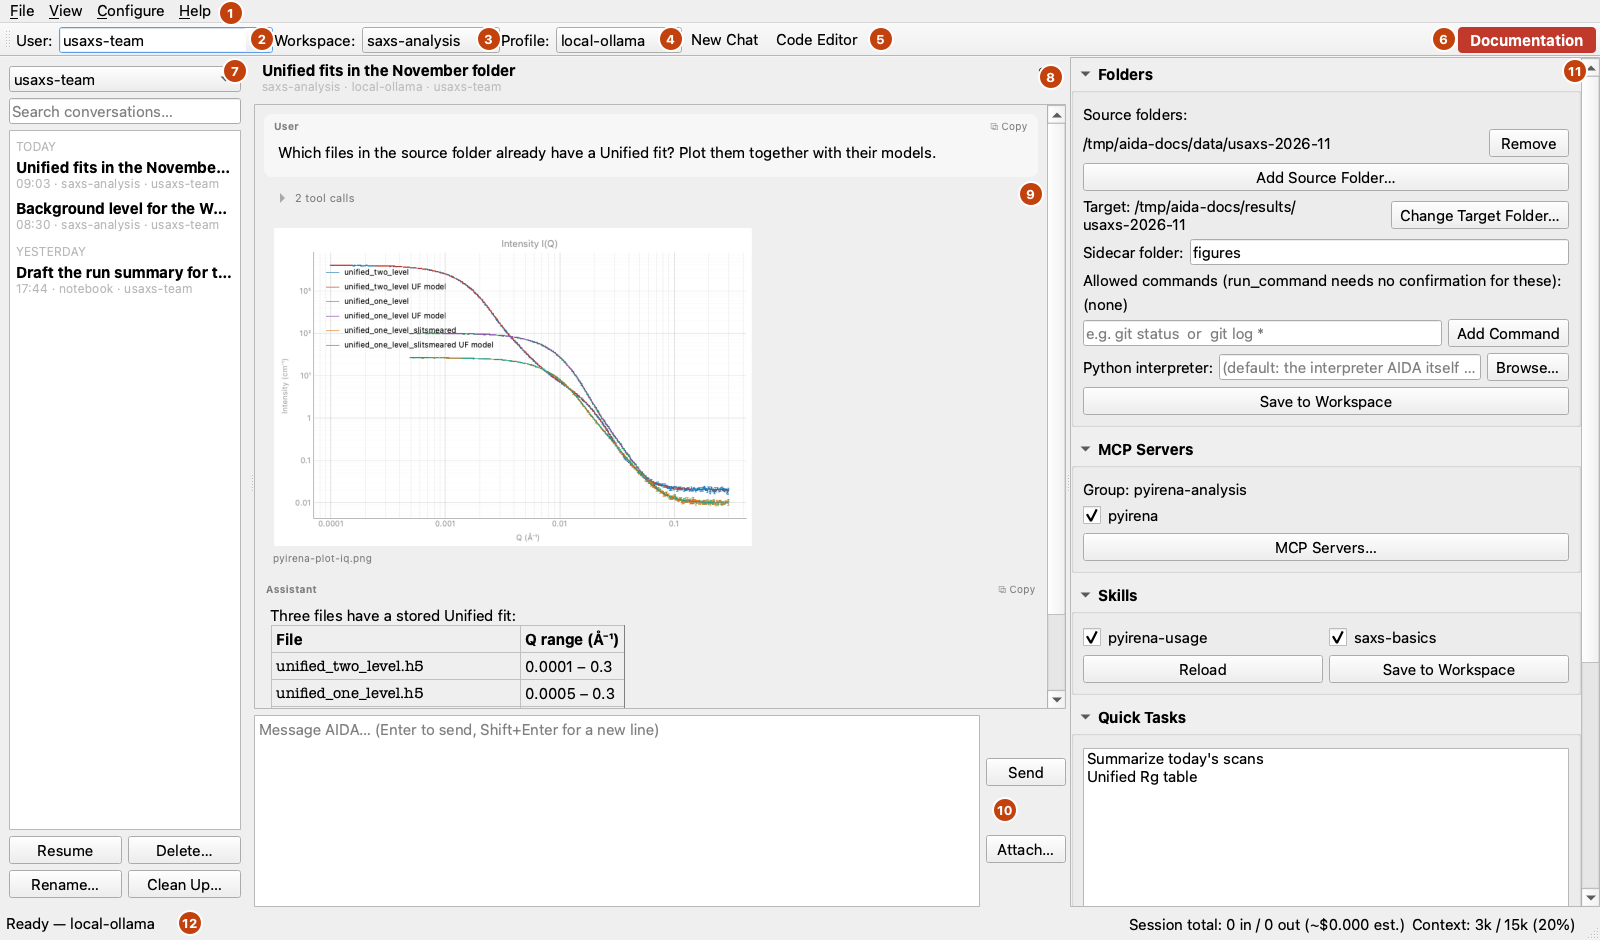
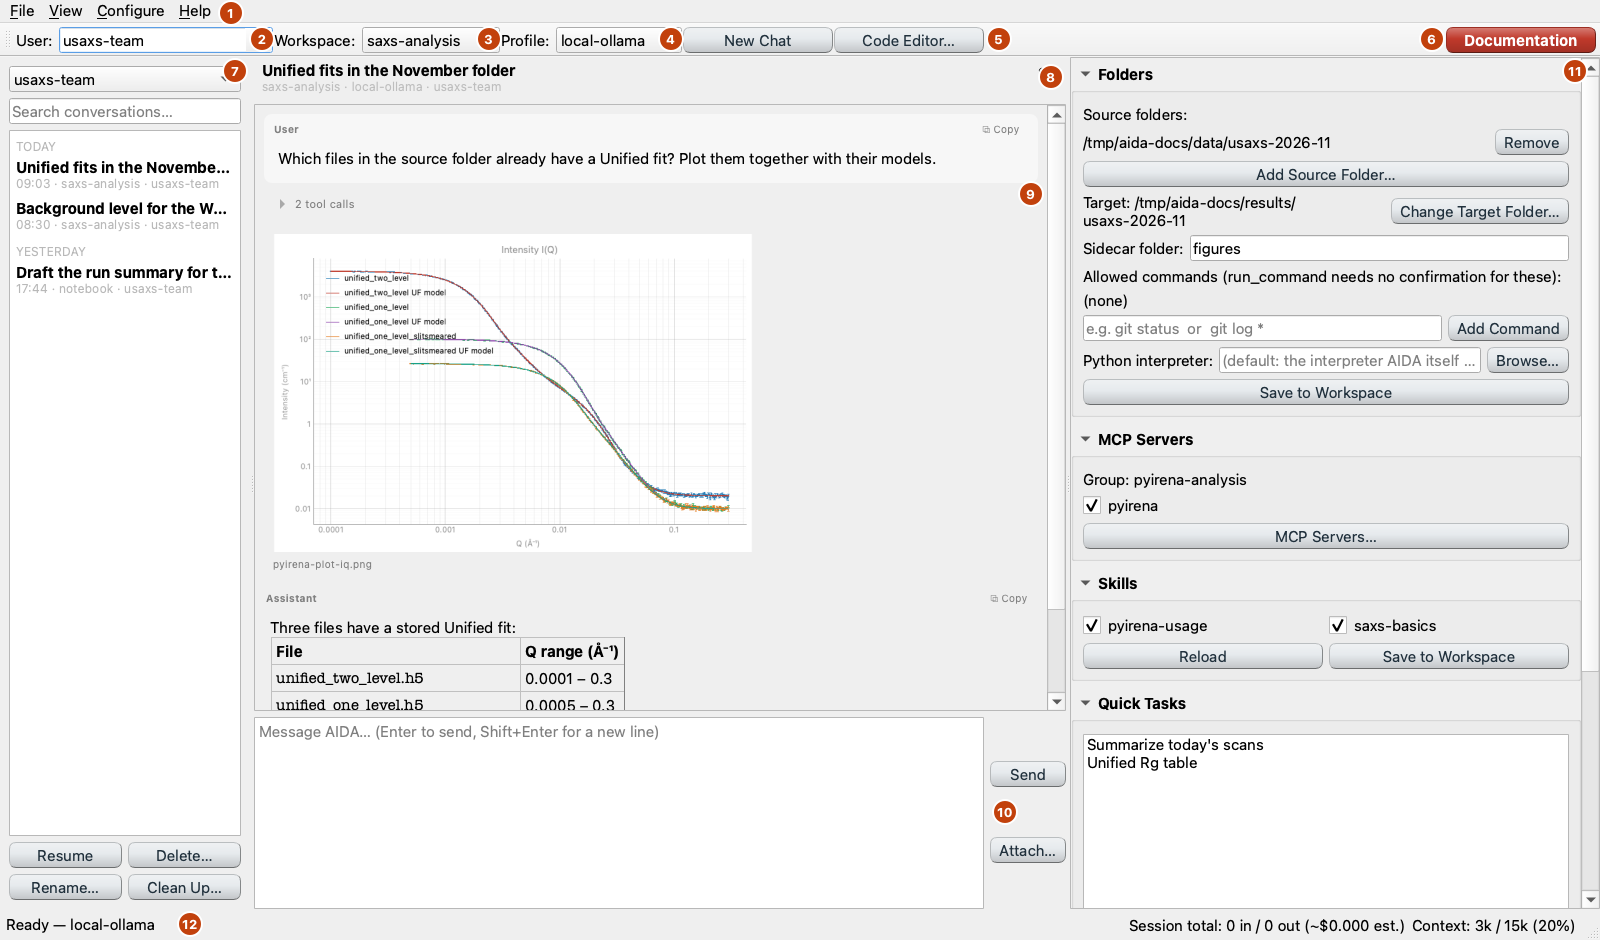
docs: regenerate the GUI overview window screenshot
The screenshot harness now installs the raised-button stylesheet, as
aida-gui does, so shots show the raised toolbar buttons and the red
Documentation button. Regenerated gui-overview-01-window only.

diff --git a/scripts/doc_shots/_package.py b/scripts/doc_shots/_package.py
@@ -100,6 +100,11 @@ def make_app():
     from aida.ui.qt.window_state import apply_font_size
 
     apply_font_size(app, AppConfig())
+    # The shared raised-button look, as aida-gui installs it; light, because
+    # every shot is taken in the light theme.
+    from aida.ui.qt import raised_buttons
+
+    raised_buttons.install(app, dark=False)
     return app
 
 
